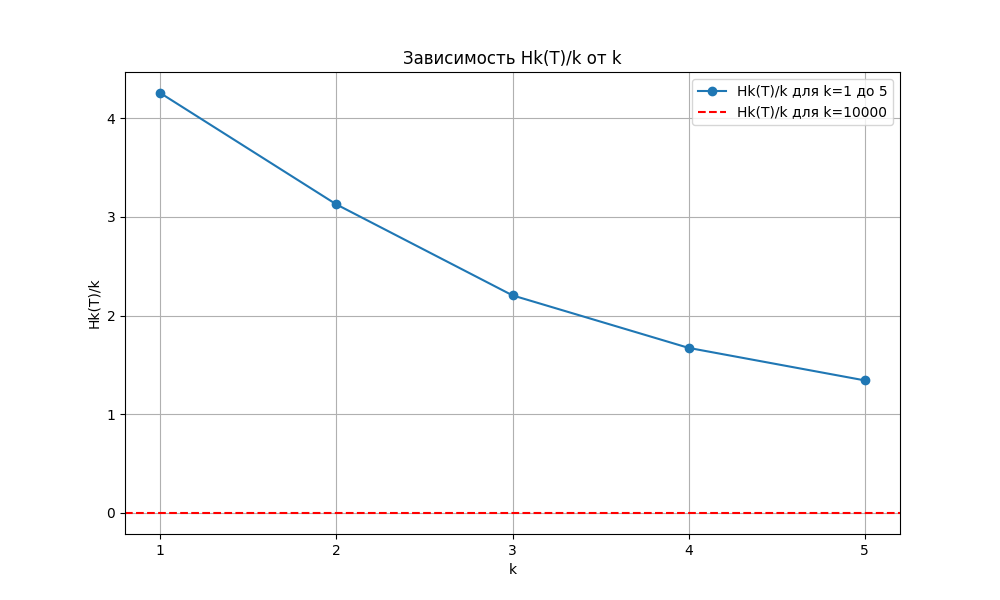
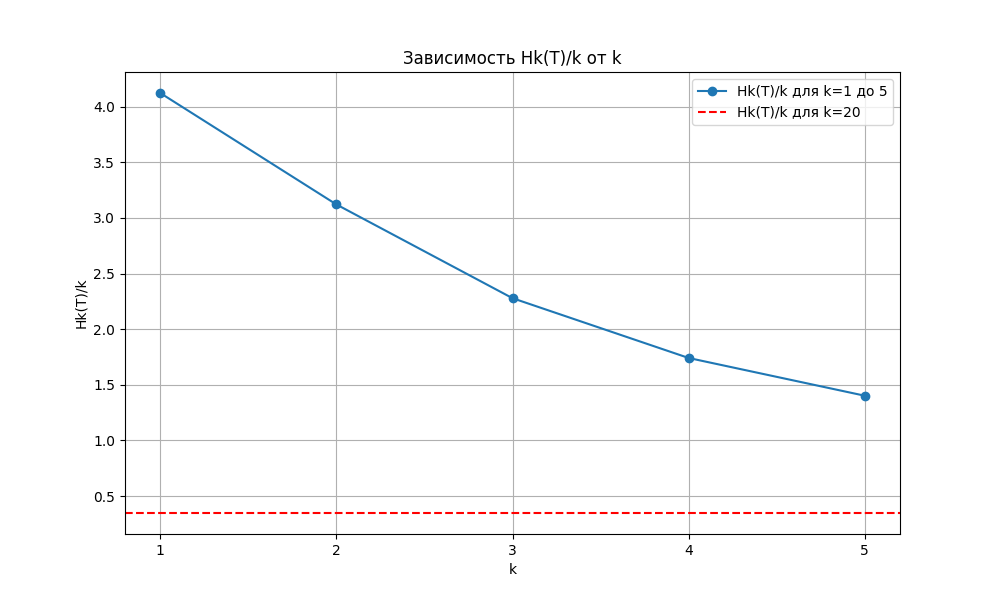
some changes

diff --git a/lab_4/main.py b/lab_4/main.py
@@ -2,6 +2,7 @@ from utils import *
 import gradio as gr
 
 n = 1
+formatted_keys = []
 
 def decrypt_interface(d, n, ciphertext_str):
     private_key = (d, n)
@@ -9,21 +10,35 @@ def decrypt_interface(d, n, ciphertext_str):
     print(ciphertext)
     return decrypt(ciphertext, private_key)
 
-def keys_interface(p, q):
-    key_pairs = generate_keypair(p, q)
-    global n
-    n = p*q
-    
-    formatted_keys = []
+def keys_interface(p, q, e):
+    global formatted_keys
+    formatted_keys.clear()  # Clear previous keys
 
-    for public_key, private_key in key_pairs:
-        e, n = public_key
-        d, _ = private_key  # Второе значение n не нужно, так как оно одинаково
-        formatted_keys.append(f"e = {e}, n = {n}\nd = {d}, n = {n}")
+    gr.Info("Starting the key generation process.")  # Informing user about the process start
 
-    result = "\n\n".join(formatted_keys)
-    
-    return result
+    if p is None or q is None:
+        raise gr.Warning("One or more input values are empty. Please enter valid prime numbers.")  # Warning for empty inputs
+
+    try:
+        n = p * q
+        if e != 0:
+            public_key, private_key = generate_keypair_with(p, q, e)
+            e, n = public_key
+            d, _ = private_key
+            formatted_keys.append(f"e = {e}, n = {n}\nd = {d}, n = {n}")
+            gr.Info("Keys successfully generated!")  # Info on successful generation
+        else:
+            key_pairs = generate_keypair(p, q)
+
+            for public_key, private_key in key_pairs:
+                e, n = public_key
+                d, _ = private_key  # Второе значение n не нужно, так как оно одинаково
+                formatted_keys.append(f"e = {e}, n = {n}\nd = {d}, n = {n}")
+
+        return "\n\n".join(formatted_keys)
+
+    except Exception as ex:
+        raise gr.Error(f"An error occurred: {str(ex)}")
 
 def encrypt_interface(e, d, text):
     preprocessed_text = preprocess_text(text)
@@ -41,11 +56,13 @@ with gr.Blocks() as demo:
             with gr.Row():
                 p_input = gr.Number(label="Enter prime number p")
                 q_input = gr.Number(label="Enter prime number q")
+                e_input = gr.Number(label="Enter prime number e")
             generate_button = gr.Button("Generate Keys and Encrypt Message")
         
             output = gr.Textbox(label="Output")
+            notification = gr.HTML("")
 
-        generate_button.click(keys_interface, inputs=[p_input, q_input], outputs=output)
+        generate_button.click(keys_interface, inputs=[p_input, q_input, e_input], outputs=output)
         
         with gr.Column():
             with gr.Row():

diff --git a/lab_4/utils.py b/lab_4/utils.py
@@ -1,4 +1,5 @@
 from sympy import isprime
+import gradio as gr
 
 alphabet = {
     'А': 10, 'Б': 11, 'В': 12, 'Г': 13, 'Д': 14, 'Е': 15, 'Ж': 16, 'З': 17, 'И': 18, 'Й': 19, 'К': 20,
@@ -77,13 +78,37 @@ def generate_keypair(p, q):
 
     return key_pairs
 
+def generate_keypair_with(p, q, e):
+    n = p * q
+    phi_n = (p - 1) * (q - 1)
+    if phi_n % e != 0 and extended_gcd(e, phi_n)[0] == 1:
+        d = mod_inverse(e, phi_n)
+    else:
+        raise gr.Error('Error: e must be coprime to phi(n) and non-zero.')
+    
+    return ((e, n),(d, n))
+
 def encrypt(message, public_key):
     """Шифрование сообщения с использованием открытого ключа"""
     e, n = public_key
     ciphertext_int = []
+    decrypted_str = ""
     for block in message:
         block = int(block)
         ciphertext_int.append(pow(block, e, n))
+        
+    #for block in ciphertext_int:
+    #    decrypted_str += str(block)
+        
+    #result = ''
+    
+    #for i in range(0, len(decrypted_str), 2):
+    #    num_str = decrypted_str[i:i+2]
+    #    number = int(num_str)
+        
+    #    if number in alphabet_inverse:
+    #        result += alphabet_inverse[number]
+    
     return ciphertext_int
 
 def decrypt(ciphertext, private_key):

diff --git a/lab_3/utils.py b/lab_3/utils.py
@@ -31,14 +31,14 @@ def plot_entropy(text):
         entropy_values.append(entropy)
         weighted_entropy_values.append(weighted_entropy)
 
-    entropy_k_10000, weighted_entropy_k_10000 = k_grams_frequency(text, 10000)
+    entropy_k_10000, weighted_entropy_k_10000 = k_grams_frequency(text, 20)
     
     entropy_values.append(entropy_k_10000)
     weighted_entropy_values.append(weighted_entropy_k_10000)
 
     plt.figure(figsize=(10, 6))
     plt.plot(k_values, weighted_entropy_values[:-1], marker='o', label='Hk(T)/k для k=1 до 5')
-    plt.axhline(y=weighted_entropy_k_10000, color='r', linestyle='--', label='Hk(T)/k для k=10000')
+    plt.axhline(y=weighted_entropy_k_10000, color='r', linestyle='--', label='Hk(T)/k для k=20')
     plt.title('Зависимость Hk(T)/k от k')
     plt.xlabel('k')
     plt.ylabel('Hk(T)/k')
@@ -53,4 +53,4 @@ def plot_entropy(text):
 
 def main(text):
     plot_file, entropy_values, weighted_entropy_values = plot_entropy(text)
-    return plot_file, entropy_values, weighted_entropy_values, entropy_values[-1]
+    return plot_file, entropy_values, weighted_entropy_values, weighted_entropy_values[-1]

diff --git a/lab_3/main.py b/lab_3/main.py
@@ -4,7 +4,12 @@ import gradio as gr
 iface = gr.Interface(
     fn=main,
     inputs="text",
-    outputs=["image", "text", "text", "text"],
+    outputs=[
+        gr.Image(label="График"),
+        gr.Textbox(label="Hk(T)"),
+        gr.Textbox(label="Hk(T)/k"),
+        gr.Textbox(label="Hk(T)/k при k -> inf")
+    ],
     title="Частотный анализ текста",
     description="Введите текст для расчета Hk(T)/k для k от 1 до 5 и постройки графика."
 )
